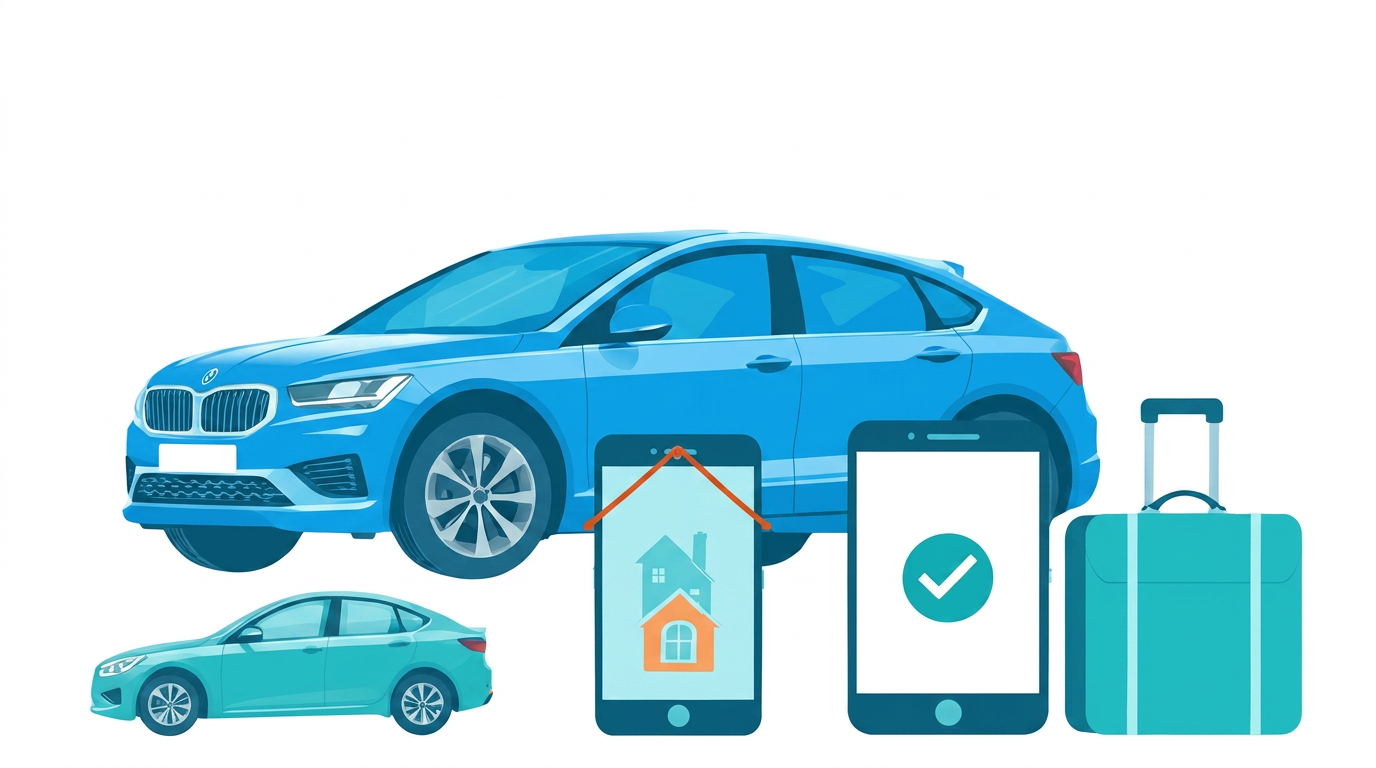
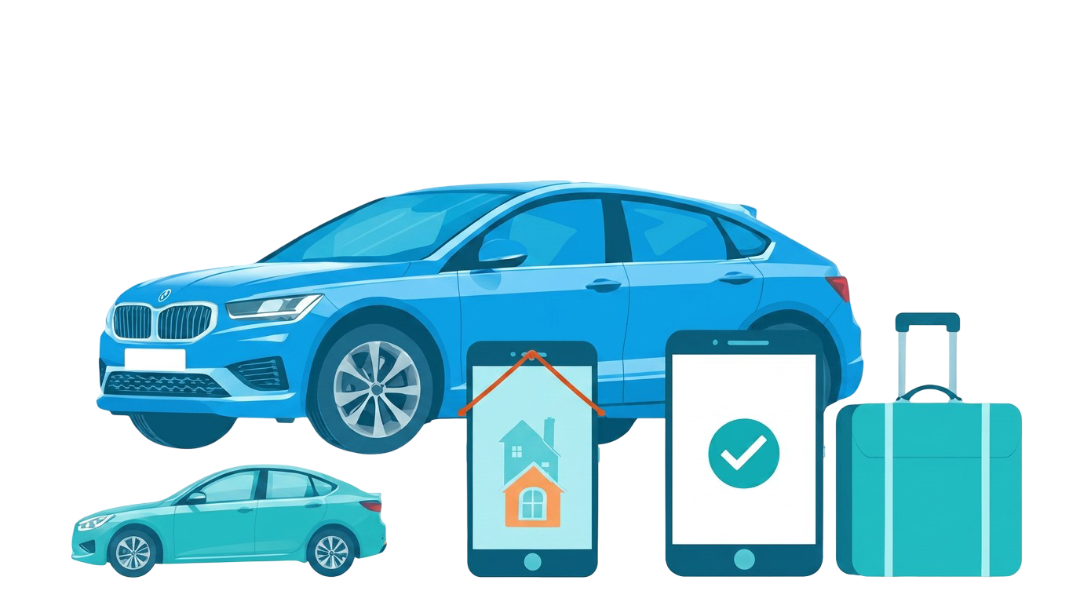
update hero section

diff --git a/src/components/Header.tsx b/src/components/Header.tsx
@@ -5,7 +5,7 @@ import { DropdownMenu, DropdownMenuTrigger, DropdownMenuContent, DropdownMenuLab
 import { useTranslation } from "react-i18next";
 import { useNavigate } from "react-router-dom";
 import { useQueryClient } from "@tanstack/react-query";
-import logo from "@/assets/icon.png";
+import logo from "@/assets/logo.png";
 
 const Header = () => {
   const queryClient = useQueryClient();
@@ -26,21 +26,21 @@ const Header = () => {
   }
   return (
     <>
-      <header className="fixed top-0 left-0 right-0 z-50 bg-card/80 backdrop-blur-xl bg-white border-b border-border">
-        <div className="container mx-auto px-4">
+      <header className="fixed top-0 left-0 right-0 z-50 bg-card/80 backdrop-blur-xl bg-white border-b border-border ">
+        <div className="container mx-auto px-28">
           <div className="flex items-center justify-between h-13 lg: h-16">
             {/* Logo */}
             <div className="flex items-center gap-2" >
               <a href="/" className="flex items-center gap-2">
                 <div className="flex items-center gap-2">
-                  {/* <img src={logo} alt="" width={38} /> */}
-                  <div>
+                 <img src={logo} alt="" width={"60px"} />
+                  {/* <div>
                     <p className="text-2xl font-bold text-primary">
                       Uzpolis
                     </p>
                     <p className="text-xs text-muted-foreground">sug'urta</p>
                   </div>
-                  <br />
+                  <br /> */}
                 </div>
               </a>
             </div>

diff --git a/src/components/HeroSection.tsx b/src/components/HeroSection.tsx
@@ -13,7 +13,7 @@ import {
 import { ChevronRight, Car, Plane, CheckCircle2 } from "lucide-react";
 import { useCategory, useSubCategory } from "@/store/useCategory";
 import { useTranslation } from "react-i18next";
-import heroImage from "@/assets/hero-illustration.png";
+import heroImage from "@/assets/hero-illustration2.png";
 import Navbar from "./Navbar";
 import InsuranceForm from "./InsuranceForm";
 import CompanyList from "./CompanyList";
@@ -81,12 +81,12 @@ const HeroSection = () => {
   }, [activeTab]);
 
   return (
-    <div className="min-h-screen bg-background">
+    <div className="min-h-screen bg-background mt-10">
       {/* <Navbar /> */}
       <Header />
 
       {/* Hero */}
-      <section className="container mx-auto  px-4 pt-12 pb-8 md:px-10">
+      <section className="container mx-auto  px-4 pt-12 pb-8 md:px-32">
         <div className="grid lg:grid-cols-2 gap-8 items-center">
           <div>
             <h1 className="text-4xl md:text-5xl font-extrabold text-foreground leading-tight mb-6">
@@ -111,7 +111,7 @@ const HeroSection = () => {
       </section>
 
       {/* Main content */}
-      <section className="container mx-auto px-4 pb-16">
+      <section className="container mx-auto  pb-16 px-28">
         <div className="grid lg:grid-cols-[380px_1fr] gap-8">
           {/* Left: Tabs + Form */}
           <div>

diff --git a/src/i18n/index.ts b/src/i18n/index.ts
@@ -3,10 +3,10 @@ import { initReactI18next } from "react-i18next";
 import ru from "./ru.json";
 import uz from "./uz.json";
 import en from "./en.json";
-const savedLang = localStorage.getItem("language");
+// const savedLang = localStorage.getItem("language");
 // language
 i18next.use(initReactI18next).init({
-    fallbackLng: savedLang || "uz",
+    fallbackLng: "uz",
     // debug: true,
     resources: {
         ru: {
